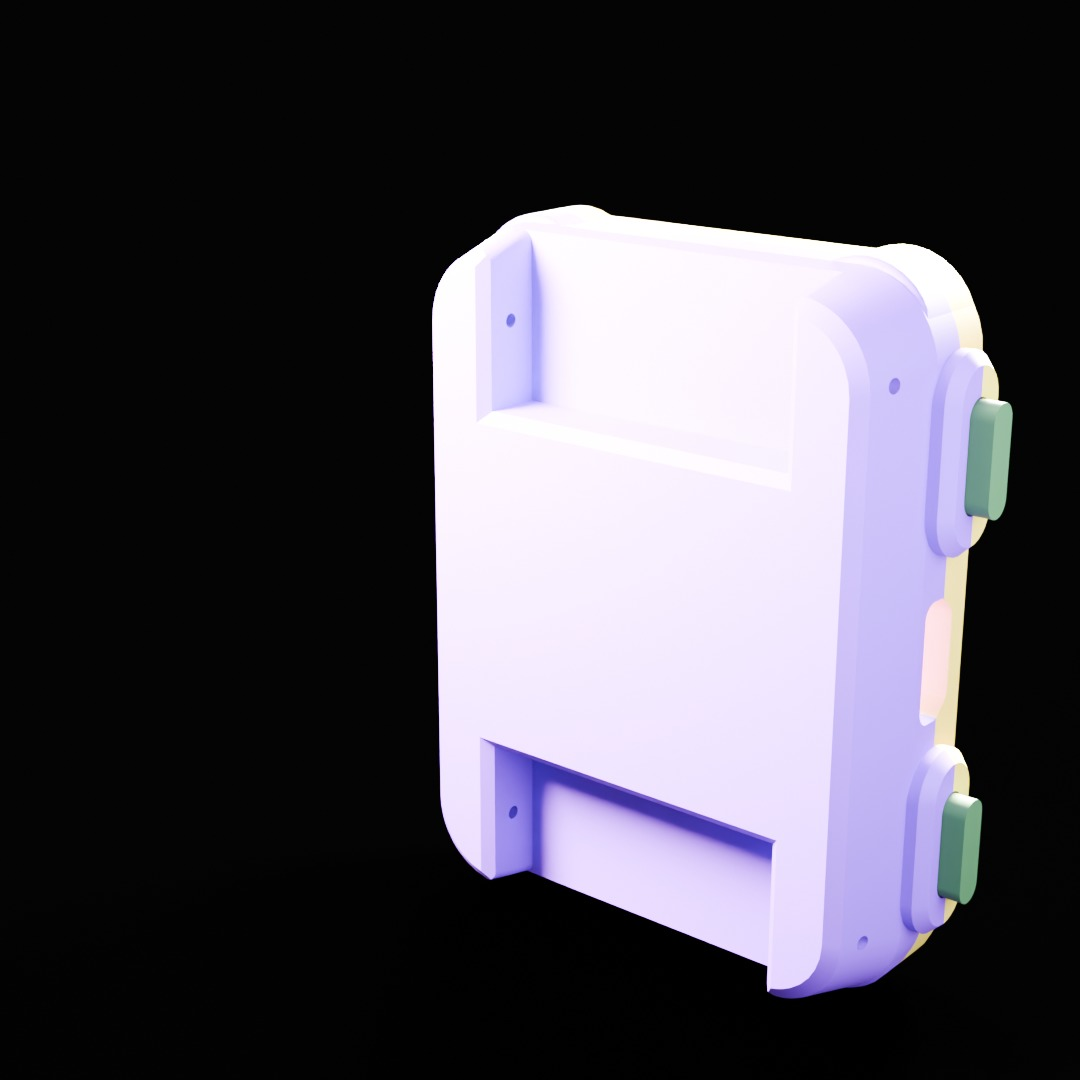
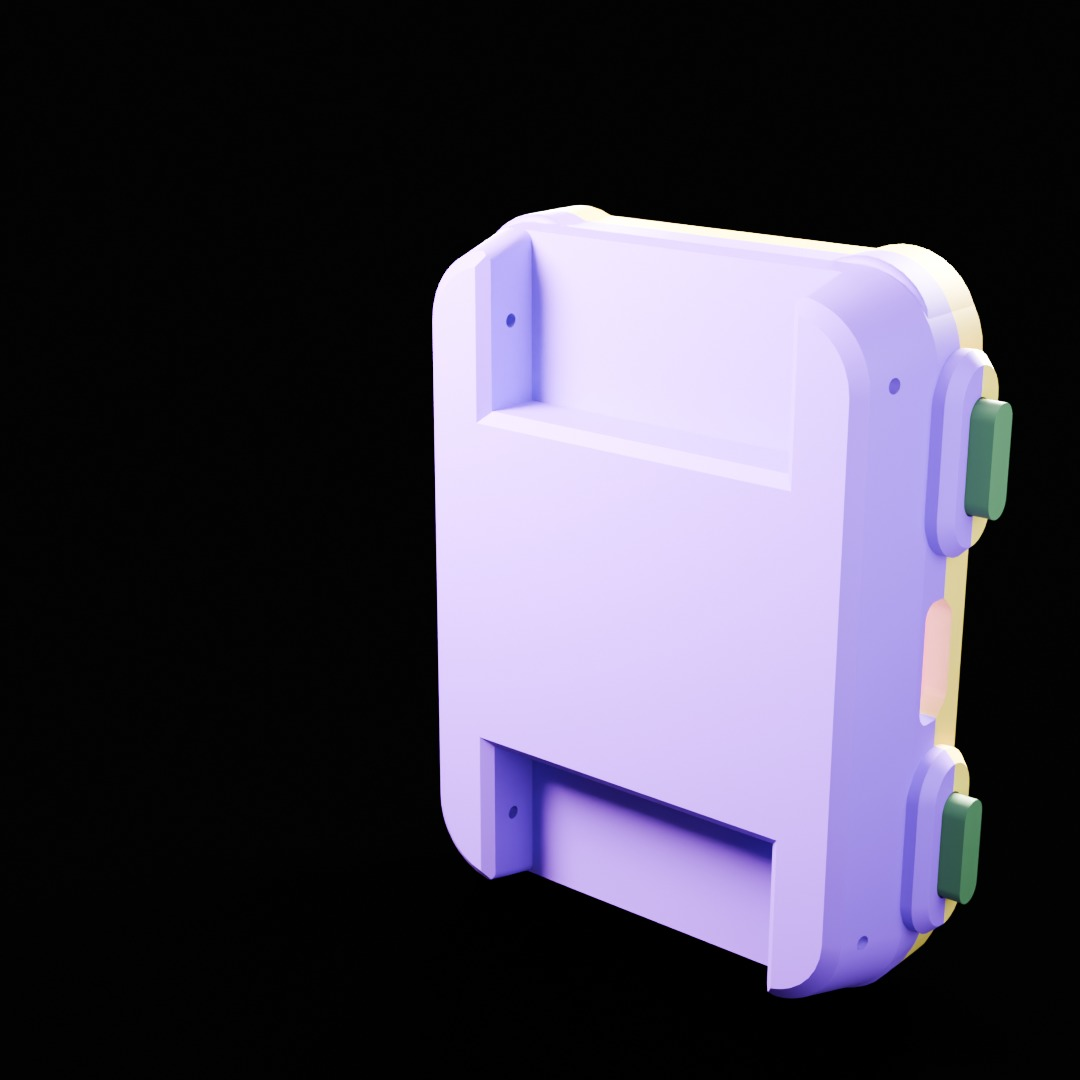
preview: dial down studio-dark Watchy 08 highlights
Lower dark-preset exposure (-0.30→-0.65), light_scale (0.46→0.34),
and Rim/Key/Kicker energies so the Watchy _preview-dark-08 sample
sheds blown whites while keeping near-black bg + readable ports.
Soft-grey live gallery stills untouched.

Changed region(s): [[0.3972, 0.2444, 0.9472, 0.9472], [0.4278, 0.2139, 0.5194, 0.3972]]

diff --git a/scripts/render_case01_stills.py b/scripts/render_case01_stills.py
@@ -154,8 +154,8 @@ def apply_preset(out, explicit):
     if name in ("dark", "studio-dark", "dark-premium"):
         defaults = {
             "bg": 0.03,
-            "exposure": -0.30,
-            "light_scale": 0.46,
+            "exposure": -0.65,
+            "light_scale": 0.34,
             "radius_scale": 2.95,
             "dampen": 0.90,
             "clay": False,
@@ -247,10 +247,10 @@ def setup_studio(target, scale, light_scale=0.28, style="softgrey"):
     s = max(scale, 0.05)
     e = max(0.18, min((s / 0.25) ** 2, 1.10)) * float(light_scale)
     if style == "dark":
-        add_area("Key", target + Vector((-0.70 * s, -0.95 * s, 0.90 * s)), target, 28.0 * e, 0.70 * s, (1.0, 0.97, 0.92))
+        add_area("Key", target + Vector((-0.70 * s, -0.95 * s, 0.90 * s)), target, 18.0 * e, 0.70 * s, (1.0, 0.97, 0.92))
         add_area("Fill", target + Vector((1.10 * s, -0.30 * s, 0.35 * s)), target, 2.4 * e, 1.40 * s, (0.72, 0.82, 1.0))
-        add_area("Rim", target + Vector((0.20 * s, 1.15 * s, 0.70 * s)), target, 52.0 * e, 0.50 * s, (1.0, 0.93, 0.86))
-        add_area("Kicker", target + Vector((-0.85 * s, 0.75 * s, 0.45 * s)), target, 22.0 * e, 0.42 * s, (0.95, 0.98, 1.0))
+        add_area("Rim", target + Vector((0.20 * s, 1.15 * s, 0.70 * s)), target, 28.0 * e, 0.50 * s, (1.0, 0.93, 0.86))
+        add_area("Kicker", target + Vector((-0.85 * s, 0.75 * s, 0.45 * s)), target, 12.0 * e, 0.42 * s, (0.95, 0.98, 1.0))
         add_area("Top", target + Vector((0.0, -0.10 * s, 1.70 * s)), target, 3.0 * e, 1.20 * s, (0.95, 0.97, 1.0))
     else:
         add_area("Key", target + Vector((-0.65 * s, -0.90 * s, 0.85 * s)), target, 34.0 * e, 0.85 * s, (1.0, 0.96, 0.90))

diff --git a/scripts/render_stills_pipeline.py b/scripts/render_stills_pipeline.py
@@ -154,8 +154,8 @@ def apply_preset(out, explicit):
     if name in ("dark", "studio-dark", "dark-premium"):
         defaults = {
             "bg": 0.03,
-            "exposure": -0.30,
-            "light_scale": 0.46,
+            "exposure": -0.65,
+            "light_scale": 0.34,
             "radius_scale": 2.95,
             "dampen": 0.90,
             "clay": False,
@@ -247,10 +247,10 @@ def setup_studio(target, scale, light_scale=0.28, style="softgrey"):
     s = max(scale, 0.05)
     e = max(0.18, min((s / 0.25) ** 2, 1.10)) * float(light_scale)
     if style == "dark":
-        add_area("Key", target + Vector((-0.70 * s, -0.95 * s, 0.90 * s)), target, 28.0 * e, 0.70 * s, (1.0, 0.97, 0.92))
+        add_area("Key", target + Vector((-0.70 * s, -0.95 * s, 0.90 * s)), target, 18.0 * e, 0.70 * s, (1.0, 0.97, 0.92))
         add_area("Fill", target + Vector((1.10 * s, -0.30 * s, 0.35 * s)), target, 2.4 * e, 1.40 * s, (0.72, 0.82, 1.0))
-        add_area("Rim", target + Vector((0.20 * s, 1.15 * s, 0.70 * s)), target, 52.0 * e, 0.50 * s, (1.0, 0.93, 0.86))
-        add_area("Kicker", target + Vector((-0.85 * s, 0.75 * s, 0.45 * s)), target, 22.0 * e, 0.42 * s, (0.95, 0.98, 1.0))
+        add_area("Rim", target + Vector((0.20 * s, 1.15 * s, 0.70 * s)), target, 28.0 * e, 0.50 * s, (1.0, 0.93, 0.86))
+        add_area("Kicker", target + Vector((-0.85 * s, 0.75 * s, 0.45 * s)), target, 12.0 * e, 0.42 * s, (0.95, 0.98, 1.0))
         add_area("Top", target + Vector((0.0, -0.10 * s, 1.70 * s)), target, 3.0 * e, 1.20 * s, (0.95, 0.97, 1.0))
     else:
         add_area("Key", target + Vector((-0.65 * s, -0.90 * s, 0.85 * s)), target, 34.0 * e, 0.85 * s, (1.0, 0.96, 0.90))

diff --git a/docs/RENDER.md b/docs/RENDER.md
@@ -52,9 +52,9 @@ mkdir -p "$OUT"
 cp "$OUT/08-three-quarter.jpg" media/demo-watchy/stills/_preview-dark-08.jpg
 ```
 
-`--preset dark` (alias: `studio-dark`) sets roughly `--bg 0.03`, raised rim/kicker vs fill,
-weaker GLB dampen + satinize (not clay), exposure/light-scale for dark bg, slightly higher
-`--radius-scale`, and a Cycles shadow-catcher floor so the slab does not blow out.
+`--preset dark` (alias: `studio-dark`) sets roughly `--bg 0.03`, dialed-down rim/key/kicker
+(Rim energy ~28), weaker GLB dampen + satinize (not clay), exposure ~-0.65 / light-scale ~0.34 for dark bg,
+slightly higher `--radius-scale`, and a Cycles shadow-catcher floor so the slab does not blow out.
 Explicit CLI flags still override preset knobs. Soft-grey defaults remain unchanged.
 
 ## Hard line
